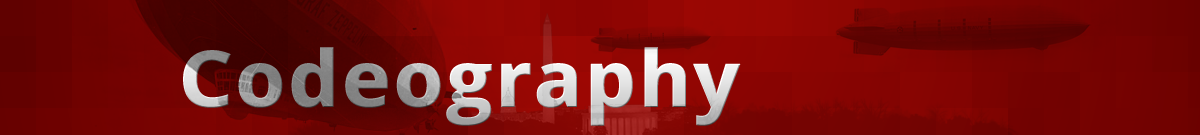
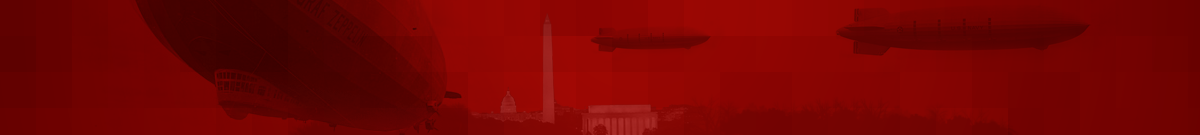
Cleaning up the headers and footers

Changed region(s): [[0.1542, 0.3556, 0.6167, 0.9481]]

diff --git a/_layouts/base.html b/_layouts/base.html
@@ -9,6 +9,7 @@
     <!--[if IE]><link rel="stylesheet" href="/stylesheets/ie.css" type="text/css" media="screen, projection"><![endif]-->
     <link rel="stylesheet" href="/stylesheets/codeography.css" type="text/css" media="screen, projection">
     <link rel="alternate" type="application/rss+xml" title="RSS 2.0" href="http://feeds.feedburner.com/codeography" />
+    <link href='http://fonts.googleapis.com/css?family=Cantarell:regular,bold&subset=latin' rel='stylesheet' type='text/css'>
 
     <script src="http://ajax.googleapis.com/ajax/libs/jquery/1.3.2/jquery.min.js" type="text/javascript"></script>
     <link href="/javascripts/prettify.css" type="text/css" rel="stylesheet" />
@@ -30,6 +31,7 @@
     <div class="noprint" id="header_row">
       <div class="container">  
         <div id="header">
+          <h1>Codeography</h1>
         </div>
       </div>
     </div>

diff --git a/_layouts/captured.html b/_layouts/captured.html
@@ -14,6 +14,7 @@
       body {
         background: #010302 url('/captured/images/background.jpg') no-repeat 0 0;
         font-size: 100%;
+        font-family: 'Lucida Grande', arial, serif;
       }
       .container {
         background: #ef97ed;
@@ -21,10 +22,14 @@
         margin-top: 30px;
         padding-top: 20px;
         border-radius: 20px;
+        -moz-border-radius: 20px;
         color: black;
 
         border: 3px solid white;
-        
+
+        /*
+        border: 3px solid rgba(255,255,255,0.7);
+        */
       }
       h1 { 
         margin-top: 0.5em; 
@@ -92,7 +97,7 @@
       <div class="span-9 prepend-0">
         <h1>Captured</h1> 
         <p class="alt">
-          Quick Screen Sharing for Mac OS X
+          Screen Capture Sharing for Mac
         </p>
 
         <hr />

diff --git a/stylesheets/codeography.css b/stylesheets/codeography.css
@@ -65,12 +65,19 @@ a.image_link:hover {
 h2.title {
   padding-bottom: 0;
 }
+#header h1{
+  color: #eee;
+  padding-top: 35px;
+  text-align: right;
+  font-family: 'Cantarell', arial, serif;
+  text-shadow: none;
+}
 #header {
   padding-top: 15px;
 }
 #header_row {
-  background: #670100 url('../images/header.png') no-repeat;
-  height: 135px;
+  background: #670100 url('../images/header.png') no-repeat 0 0;
+  height: 120px;
   margin-top: -25px;
 }
 .header_by_line {
